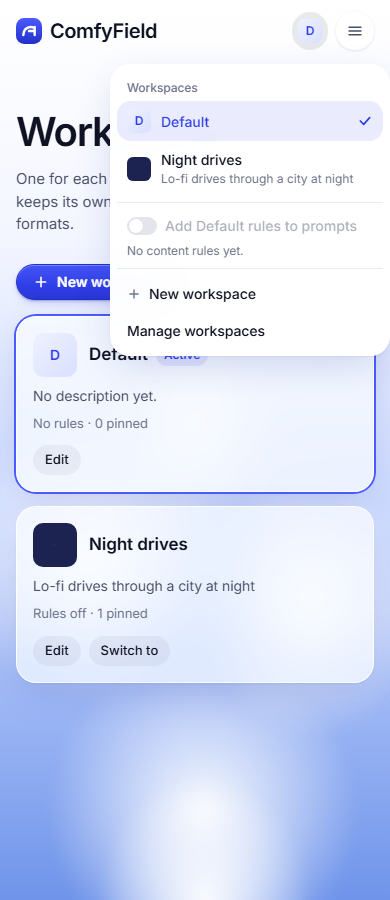
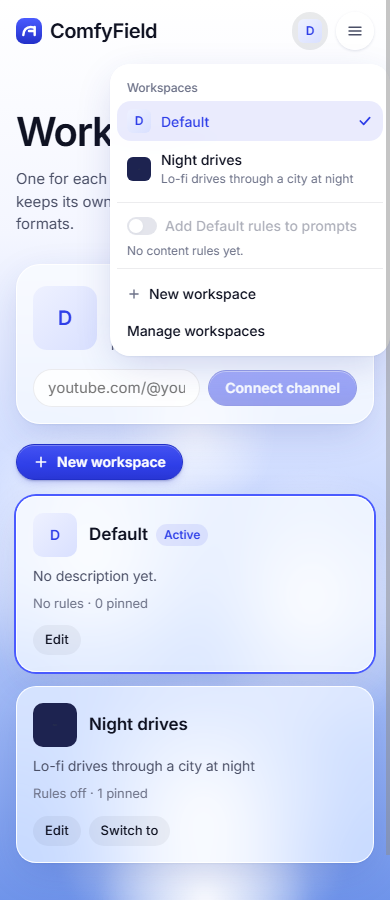
Connect a YouTube channel to a workspace
Paste a channel link or handle; the server reads the channel and its six
latest uploads from the YouTube Data API v3 with a key saved in
Connections. The Workspaces page header shows the avatar, name,
subscribers and uploads. The data is cached in workspaces.json and its
images in local media, so a reload makes no API call. Checks run against
a mocked API; the real call has not been made without a key.

Changed region(s): [[0.0308, 0.0, 1.0, 0.9644], [0.5846, 0.6222, 0.6462, 0.6844], [0.5231, 0.6222, 0.5538, 0.6533]]

diff --git a/server/youtube.js b/server/youtube.js
@@ -1,0 +1,68 @@
+// A workspace's YouTube channel through the YouTube Data API v3: the channel, then its six latest
+// uploads. Images are saved to local media so the header still shows offline; the data is cached
+// in workspaces.json until the user refreshes it.
+const API = 'https://www.googleapis.com/youtube/v3'
+const fail = (message, status = 400) => Object.assign(new Error(message), { status })
+
+// A channel URL, an @handle, a bare handle or a UC… channel id.
+export function parseChannel(input) {
+  const raw = String(input || '').trim()
+  if (!raw) throw fail('Paste a YouTube channel link or @handle.')
+  let text = raw
+  if (/^(https?:\/\/)?(www\.|m\.)?youtube\.com\//i.test(raw)) {
+    const url = new URL(/^https?:/i.test(raw) ? raw : `https://${raw}`)
+    const [first, second] = url.pathname.split('/').filter(Boolean)
+    if (first?.startsWith('@')) text = first
+    else if (first === 'channel' && second) text = second
+    else if (first === 'user' && second) return { username: decodeURIComponent(second) }
+    else throw fail('Use the channel link with an @handle or /channel/ in it.')
+  }
+  if (/^UC[\w-]{22}$/.test(text)) return { id: text }
+  const handle = decodeURIComponent(text).replace(/^@/, '')
+  if (!/^[\w.-]{3,30}$/.test(handle)) throw fail('That does not look like a YouTube handle.')
+  return { handle: `@${handle}` }
+}
+
+const best = (thumbs = {}) => (thumbs.high || thumbs.medium || thumbs.default || {}).url || ''
+
+export async function fetchChannel(input, { key, fetch = globalThis.fetch, cacheImage = async (url) => url } = {}) {
+  if (!key) throw fail('Add a YouTube Data API key in Connections first.')
+  const who = parseChannel(input)
+  const get = async (path, params) => {
+    let r
+    try { r = await fetch(`${API}/${path}?${new URLSearchParams({ ...params, key })}`, { signal: AbortSignal.timeout(10000) }) } catch {
+      throw fail('Could not reach YouTube. Check your connection.', 502)
+    }
+    const data = await r.json().catch(() => ({}))
+    if (!r.ok) {
+      const reason = data.error?.errors?.[0]?.reason
+      if (r.status === 400 && /key/i.test(data.error?.message || '')) throw fail('YouTube refused the key. Check it in Connections.')
+      if (r.status === 403 && /quota/i.test(reason || '')) throw fail('The YouTube key is out of quota for today.', 429)
+      throw fail(`YouTube answered ${r.status}${data.error?.message ? `: ${data.error.message}` : ''}.`, 502)
+    }
+    return data
+  }
+  const lookup = who.id ? { id: who.id } : who.username ? { forUsername: who.username } : { forHandle: who.handle }
+  const channel = (await get('channels', { part: 'snippet,statistics,contentDetails,brandingSettings', ...lookup })).items?.[0]
+  if (!channel) throw fail(`No YouTube channel matches ${who.handle || who.id || who.username}.`, 404)
+  const playlist = channel.contentDetails?.relatedPlaylists?.uploads
+  const items = playlist ? (await get('playlistItems', { part: 'snippet,contentDetails', playlistId: playlist, maxResults: '6' })).items || [] : []
+  const stats = channel.statistics || {}
+  const uploads = []
+  for (const item of items.slice(0, 6)) {
+    const id = item.contentDetails?.videoId || item.snippet?.resourceId?.videoId
+    if (!id) continue
+    uploads.push({
+      id, title: item.snippet?.title || '', published: item.contentDetails?.videoPublishedAt || item.snippet?.publishedAt || '',
+      thumb: await cacheImage(best(item.snippet?.thumbnails)), url: `https://www.youtube.com/watch?v=${id}`,
+    })
+  }
+  const banner = channel.brandingSettings?.image?.bannerExternalUrl
+  return {
+    input: String(input).trim(), id: channel.id, handle: channel.snippet?.customUrl || who.handle || '',
+    title: channel.snippet?.title || '', avatar: await cacheImage(best(channel.snippet?.thumbnails)),
+    banner: banner ? await cacheImage(`${banner}=w1280`) : '',
+    subscribers: stats.hiddenSubscriberCount ? null : Number(stats.subscriberCount ?? NaN) || 0,
+    videos: Number(stats.videoCount || 0), uploads, fetched: Date.now(),
+  }
+}

diff --git a/src/components/WorkspaceHeader.jsx b/src/components/WorkspaceHeader.jsx
@@ -1,0 +1,75 @@
+import { useState } from 'react'
+import { Link } from 'react-router-dom'
+import { WorkspaceAvatar } from './nav/WorkspaceSwitcher.jsx'
+import { compactCount } from '../../shared/workspaces.js'
+import { connectYoutube, disconnectYoutube } from '../lib/workspaces.js'
+import { useApp } from '../lib/appContext.js'
+
+const day = (iso) => (iso ? new Date(iso).toLocaleDateString(undefined, { month: 'short', day: 'numeric' }) : '')
+
+// The active workspace at the top of its page: its channel when one is connected, else a field to connect one.
+export default function WorkspaceHeader({ ws }) {
+  const { connections } = useApp() || {}
+  const [channel, setChannel] = useState('')
+  const [busy, setBusy] = useState(false)
+  const [err, setErr] = useState('')
+  const yt = ws.youtube
+  const keyed = Boolean(connections?.youtube?.connected)
+
+  const connect = async (e) => {
+    e?.preventDefault()
+    setBusy(true); setErr('')
+    try { await connectYoutube(ws.id, e ? channel : undefined); setChannel('') } catch (e2) { setErr(e2.message) }
+    setBusy(false)
+  }
+
+  return (
+    <section className="ws-head glass rise" aria-label={`${ws.name} workspace`}>
+      {yt?.banner && <div className="ws-banner"><img src={yt.banner} alt="" /></div>}
+      <div className="ws-head-main">
+        {yt?.avatar ? <span className="ws-avatar lg ws-channel-avatar" aria-hidden="true"><img src={yt.avatar} alt="" /></span> : <WorkspaceAvatar ws={ws} size="lg" />}
+        <div className="ws-head-text">
+          <h2>{yt?.title || ws.name}</h2>
+          {yt ? (
+            <p>
+              <a href={`https://www.youtube.com/${yt.handle?.startsWith('@') ? yt.handle : `channel/${yt.id}`}`} target="_blank" rel="noreferrer">{yt.handle || 'YouTube channel'}</a>
+              {' · '}{yt.subscribers == null ? 'Subscribers hidden' : `${compactCount(yt.subscribers)} subscribers`}
+              {yt.videos ? ` · ${compactCount(yt.videos)} videos` : ''}
+            </p>
+          ) : <p>{ws.description || 'Connect a YouTube channel to see it here.'}</p>}
+        </div>
+        {yt && (
+          <div className="ws-head-acts">
+            <button type="button" className="btn-soft sm" disabled={busy} onClick={() => connect()}>{busy ? 'Updating' : 'Refresh'}</button>
+            <button type="button" className="btn-soft sm" disabled={busy} onClick={() => disconnectYoutube(ws.id).catch((e2) => setErr(e2.message))}>Disconnect</button>
+          </div>
+        )}
+      </div>
+      {yt ? (
+        <>
+          {yt.uploads?.length > 0 ? (
+            <ul className="ws-uploads">
+              {yt.uploads.slice(0, 6).map((v) => (
+                <li key={v.id}>
+                  <a href={v.url} target="_blank" rel="noreferrer">
+                    <span className="ws-thumb">{v.thumb && <img src={v.thumb} alt="" loading="lazy" />}</span>
+                    <strong>{v.title}</strong>
+                    <small>{day(v.published)}</small>
+                  </a>
+                </li>
+              ))}
+            </ul>
+          ) : <p className="muted ws-head-note">No public uploads yet.</p>}
+          <small className="muted ws-head-note">Saved on this machine {new Date(yt.fetched).toLocaleString(undefined, { dateStyle: 'medium', timeStyle: 'short' })}. Refresh to update.</small>
+        </>
+      ) : (
+        <form className="ws-connect" onSubmit={connect}>
+          <input value={channel} placeholder="youtube.com/@yourchannel or @handle" aria-label="YouTube channel link or handle" onChange={(e) => setChannel(e.target.value)} />
+          <button className="btn-blue sm" disabled={busy || !channel.trim() || !keyed}>{busy ? 'Connecting' : 'Connect channel'}</button>
+          {!keyed && <small className="ws-head-note">Add a YouTube Data API key in <Link to="/connections">Connections</Link> first.</small>}
+        </form>
+      )}
+      {err && <p className="plist-note">{err}</p>}
+    </section>
+  )
+}

diff --git a/src/styles.css b/src/styles.css
@@ -163,6 +163,8 @@
   --ws-name: 140px;
   --ws-gap: 10px;
   --ws-card: 260px;
+  --ws-banner: 16 / 3;
+  --ws-thumb: 16 / 9;
 }
 
 .agent-page { width: min(var(--w-composer), 100% - var(--gutter)); margin: var(--agent-page-top) auto; }
@@ -2996,6 +2998,31 @@ a.skill-chip:active { transform: scale(.96); }
 .ws-pin:hover { background: var(--ink-fill-hover); }
 .ws-pin.on { background: var(--blue-select); color: var(--blue); }
 
+/* The active workspace's header, with its YouTube channel. */
+.ws-head { display: flex; flex-direction: column; gap: 14px; margin-bottom: 20px; padding: 16px; border-radius: var(--r-xl); overflow: hidden; }
+.ws-banner { position: relative; margin: -16px -16px 0; aspect-ratio: var(--ws-banner); overflow: hidden; background: var(--blue-mist); }
+.ws-banner img { position: absolute; inset: 0; width: 100%; height: 100%; object-fit: cover; display: block; }
+.ws-head-main { display: flex; align-items: center; gap: 14px; min-width: 0; }
+.ws-channel-avatar { border-radius: 50%; }
+.ws-head-text { flex: 1; min-width: 0; }
+.ws-head-text h2 { margin: 0; font-size: var(--text-xl); font-weight: 600; letter-spacing: -.02em; white-space: nowrap; overflow: hidden; text-overflow: ellipsis; }
+.ws-head-text p { margin: 2px 0 0; color: var(--ink-2); font-size: var(--text-md); }
+.ws-head-text a { color: var(--blue); font-weight: 500; }
+.ws-head-acts { display: flex; gap: 8px; flex-shrink: 0; }
+.ws-uploads { display: grid; grid-template-columns: repeat(6, minmax(0, 1fr)); gap: var(--ws-gap); margin: 0; padding: 0; list-style: none; }
+.ws-uploads a { display: flex; flex-direction: column; gap: 4px; min-width: 0; }
+.ws-thumb { position: relative; aspect-ratio: var(--ws-thumb); border-radius: var(--r-sm); overflow: hidden; background: var(--ink-fill); transition: transform var(--dur-press) var(--spring); }
+.ws-uploads a:hover .ws-thumb { transform: translateY(-2px); }
+.ws-thumb img { position: absolute; inset: 0; width: 100%; height: 100%; object-fit: cover; display: block; }
+.ws-uploads strong { font-size: var(--text-sm); font-weight: 500; line-height: 1.3; display: -webkit-box; -webkit-line-clamp: 2; -webkit-box-orient: vertical; overflow: hidden; }
+.ws-uploads small { font-size: var(--text-xs); color: var(--muted); }
+.ws-head-note { font-size: var(--text-xs); }
+.ws-connect { display: flex; flex-wrap: wrap; align-items: center; gap: 8px; }
+.ws-connect input { flex: 1; min-width: 0; height: 38px; padding: 0 14px; border-radius: var(--r-pill); border: 1px solid var(--line); background: var(--glass-strong); outline: 0; }
+.ws-connect input:focus { border-color: var(--blue-focus); box-shadow: var(--ring); }
+.ws-connect .ws-head-note { flex-basis: 100%; color: var(--muted); }
+.ws-connect .ws-head-note a { color: var(--blue); }
+
 /* Workspace filter for Library and Flows lists. */
 .lib-head-row { display: flex; flex-wrap: wrap; align-items: center; justify-content: space-between; gap: var(--ws-gap); }
 .lib-head-row .seg { margin: 0; }
@@ -3014,4 +3041,7 @@ a.skill-chip:active { transform: scale(.96); }
   .ws-menu { position: fixed; top: 64px; right: 16px; left: 16px; width: auto; min-width: 0; }
   .ws-identity { flex-direction: column; align-items: stretch; }
   .ws-avatar-pick { justify-self: start; justify-items: start; }
+  .ws-uploads { grid-template-columns: repeat(2, minmax(0, 1fr)); }
+  .ws-head-main { flex-wrap: wrap; }
+  .ws-head-acts { flex-basis: 100%; }
 }

diff --git a/server/workspaces.js b/server/workspaces.js
@@ -66,6 +66,15 @@ export function createWorkspaces({ directory = () => dataDirectory() } = {}) {
       find(store, id)
       return write({ ...store, active: id })
     },
+    // The channel is fetched data, not user input, so it skips cleanWorkspace.
+    setYoutube(id, youtube) {
+      const store = read()
+      const ws = { ...find(store, id), updated: Date.now() }
+      if (youtube) ws.youtube = youtube
+      else delete ws.youtube
+      write({ ...store, workspaces: store.workspaces.map((w) => (w.id === id ? ws : w)) })
+      return ws
+    },
     // Server-side runs (Flows, MCP) add the active workspace's criteria the same way the app does.
     withActiveCriteria: (prompt, kind) => withCriteria(prompt, service.active(), kind),
   }
@@ -105,10 +114,20 @@ export function migrateToWorkspaces({ directory = () => dataDirectory() } = {}) 
 export const keepWorkspace = (next, previous) => (typeof next.workspace !== 'string' && typeof previous?.workspace === 'string' ? { ...next, workspace: previous.workspace } : next)
 
 // /api/workspaces routes. Returns false when the path is not a workspace route.
-export async function workspaceRoute(req, res, url, { body, send, service = workspaces }) {
+// youtube(channel) fetches a channel for POST /api/workspaces/:id/youtube; a refresh sends no channel.
+export async function workspaceRoute(req, res, url, { body, send, service = workspaces, youtube }) {
   if (url.pathname === '/api/workspaces' && req.method === 'GET') return send(res, 200, service.list()), true
   if (url.pathname === '/api/workspaces' && req.method === 'POST') return send(res, 200, service.create(await body(req))), true
   if (url.pathname === '/api/workspaces/active' && req.method === 'POST') return send(res, 200, service.activate((await body(req)).id)), true
+  const yt = /^\/api\/workspaces\/([\w-]{1,64})\/youtube$/.exec(url.pathname)
+  if (yt && req.method === 'POST') {
+    const { channel } = await body(req)
+    const current = service.list().workspaces.find((w) => w.id === yt[1])
+    if (!current) throw Object.assign(new Error('That workspace is gone. Pick another one.'), { status: 404 })
+    if (!youtube) throw Object.assign(new Error('YouTube is not set up on this server.'), { status: 501 })
+    return send(res, 200, service.setYoutube(yt[1], await youtube(channel || current.youtube?.input))), true
+  }
+  if (yt && req.method === 'DELETE') return send(res, 200, service.setYoutube(yt[1], null)), true
   const m = /^\/api\/workspaces\/([\w-]{1,64})$/.exec(url.pathname)
   if (!m) return false
   if (req.method === 'PATCH') return send(res, 200, service.update(m[1], await body(req))), true

diff --git a/server/plugin.js b/server/plugin.js
@@ -13,6 +13,7 @@ import { agentRoutes } from './agent-routes.js'
 import { createJobs } from './jobs.js'
 import { allowedApiRequest } from './local-access.js'
 import { workspaceRoute, workspaces, migrateToWorkspaces } from './workspaces.js'
+import { fetchChannel } from './youtube.js'
 
 export { providers } from './core.js'
 
@@ -186,6 +187,9 @@ async function importUrl({ url }) {
   return { ...page, images, logo: logo || '', url: target.href, host: target.hostname.replace(/^www\./, '') }
 }
 
+// The channel's avatar, banner and thumbnails are saved to local media; a picture that will not download keeps its web address.
+const youtube = (channel) => fetchChannel(channel, { key: core.config('youtube').key, cacheImage: async (src) => (src ? (await pullImage(src)) || src : '') })
+
 export default function comfyfieldApi({ harness } = {}) {
   return {
     name: 'comfyfield-api',
@@ -349,7 +353,7 @@ function mount(server, harness) {
         return send(res, 200, { ok: true })
       }
       if (url.pathname.startsWith('/api/library/') && await libraryRoute(req, res, url)) return
-      if (url.pathname.startsWith('/api/workspaces') && await workspaceRoute(req, res, url, { body, send })) return
+      if (url.pathname.startsWith('/api/workspaces') && await workspaceRoute(req, res, url, { body, send, youtube })) return
       if (url.pathname.startsWith('/media/')) {
         const file = core.mediaPath(url.pathname)
         if (!fs.existsSync(file)) return send(res, 404, { error: 'Not found' })

diff --git a/src/pages/Workspaces.jsx b/src/pages/Workspaces.jsx
@@ -2,6 +2,7 @@ import { useEffect, useMemo, useRef, useState } from 'react'
 import { useSearchParams } from 'react-router-dom'
 import { IconClose, IconPlus, IconSearch, IconTrash } from '../components/Icons.jsx'
 import { WorkspaceAvatar } from '../components/nav/WorkspaceSwitcher.jsx'
+import WorkspaceHeader from '../components/WorkspaceHeader.jsx'
 import { DEFAULT_WORKSPACE, MAX_PINNED, MAX_RULES, blankWorkspace } from '../../shared/workspaces.js'
 import { createWorkspace, removeWorkspace, switchWorkspace, updateWorkspace, useWorkspaces } from '../lib/workspaces.js'
 import { upload } from '../lib/useLibrary.js'
@@ -157,6 +158,7 @@ export default function Workspaces() {
         <h1>Workspaces</h1>
         <p>One for each channel, brand or project. Each keeps its own look, content rules and pinned formats.</p>
       </div>
+      <WorkspaceHeader key={current.id} ws={current} />
       <div className="lib-filters rise"><button type="button" className="btn-blue sm" onClick={() => setEditing('new')}><IconPlus />New workspace</button></div>
       {error && <p className="plist-note">{error}</p>}
       <div className="ws-grid">

diff --git a/server/core.js b/server/core.js
@@ -30,6 +30,7 @@ export const providers = {
   fal: { env: ['FAL_KEY'], fields: ['key'] },
   google: { env: ['GEMINI_API_KEY'], fields: ['key'] },
   elevenlabs: { env: ['ELEVENLABS_API_KEY'], fields: ['key'] },
+  youtube: { env: ['YOUTUBE_API_KEY'], fields: ['key'] },
   runpod: { env: ['RUNPOD_API_KEY', 'RUNPOD_DAILY_CAP', 'RUNPOD_AUTO_START', 'RUNPOD_IDLE_MIN', 'RUNPOD_TIER'], fields: ['key', 'cap', 'auto', 'idle', 'tier'] },
 }
 
@@ -461,6 +462,11 @@ export async function testConnection(id) {
   if (id === 'elevenlabs') {
     // Restricted keys often lack user_read, so check with the models list instead.
     const r = await fetch('https://api.elevenlabs.io/v1/models', { headers: { 'xi-api-key': c.key } })
+    return r.ok
+  }
+  if (id === 'youtube') {
+    // A one-unit lookup of YouTube's own channel proves the key without touching the user's quota much.
+    const r = await fetch(`https://www.googleapis.com/youtube/v3/channels?part=id&forHandle=%40YouTube&key=${encodeURIComponent(c.key)}`)
     return r.ok
   }
   if (id === 'fal') return Boolean(c.key) // fal has no free auth-check endpoint

diff --git a/src/lib/workspaces.js b/src/lib/workspaces.js
@@ -37,6 +37,18 @@ export async function updateWorkspace(id, data) {
   return ws
 }
 
+// Fetches the channel on the server, which caches it in workspaces.json. No channel refreshes the saved one.
+export async function connectYoutube(id, channel) {
+  const ws = await call(`/api/workspaces/${id}/youtube`, 'POST', { channel })
+  set({ workspaces: state.workspaces.map((w) => (w.id === id ? ws : w)) })
+  return ws
+}
+
+export async function disconnectYoutube(id) {
+  const ws = await call(`/api/workspaces/${id}/youtube`, 'DELETE')
+  set({ workspaces: state.workspaces.map((w) => (w.id === id ? ws : w)) })
+}
+
 export const removeWorkspace = async (id) => accept(await call(`/api/workspaces/${id}`, 'DELETE'))
 
 export async function switchWorkspace(id) {

diff --git a/shared/workspaces.js b/shared/workspaces.js
@@ -68,3 +68,12 @@ export const workspaceOf = (item) => (typeof item?.workspace === 'string' && ite
 export const inWorkspace = (item, scope) => !scope || workspaceOf(item) === scope
 
 export const initialsOf = (name = '') => name.trim().split(/\s+/).slice(0, 2).map((w) => w[0]?.toUpperCase() || '').join('') || '?'
+
+// 12,400 → 12.4K and 128,400 → 128K, the way YouTube shows subscriber counts.
+export function compactCount(n) {
+  if (n == null) return ''
+  if (n < 1000) return String(n)
+  const [div, unit] = n >= 1e9 ? [1e9, 'B'] : n >= 1e6 ? [1e6, 'M'] : [1e3, 'K']
+  const v = n / div
+  return `${v >= 100 ? Math.floor(v) : Math.floor(v * 10) / 10}${unit}`
+}

diff --git a/src/lib/catalog.js b/src/lib/catalog.js
@@ -139,6 +139,9 @@ export const providerInfo = {
   elevenlabs: { name: 'ElevenLabs', blurb: 'Your ElevenLabs key for voices and sound effects.', fields: [
     { id: 'key', label: 'API key', placeholder: 'xi-api-key', secret: true },
   ], link: 'https://elevenlabs.io/app/settings/api-keys' },
+  youtube: { name: 'YouTube', blurb: 'A YouTube Data API key to show a channel in its workspace. Read only, no sign-in.', fields: [
+    { id: 'key', label: 'API key', placeholder: 'AIza…', secret: true },
+  ], link: 'https://console.cloud.google.com/apis/library/youtube.googleapis.com' },
 }
 
 // Account sign-ins for later. These need each site's own login, not an API key.
